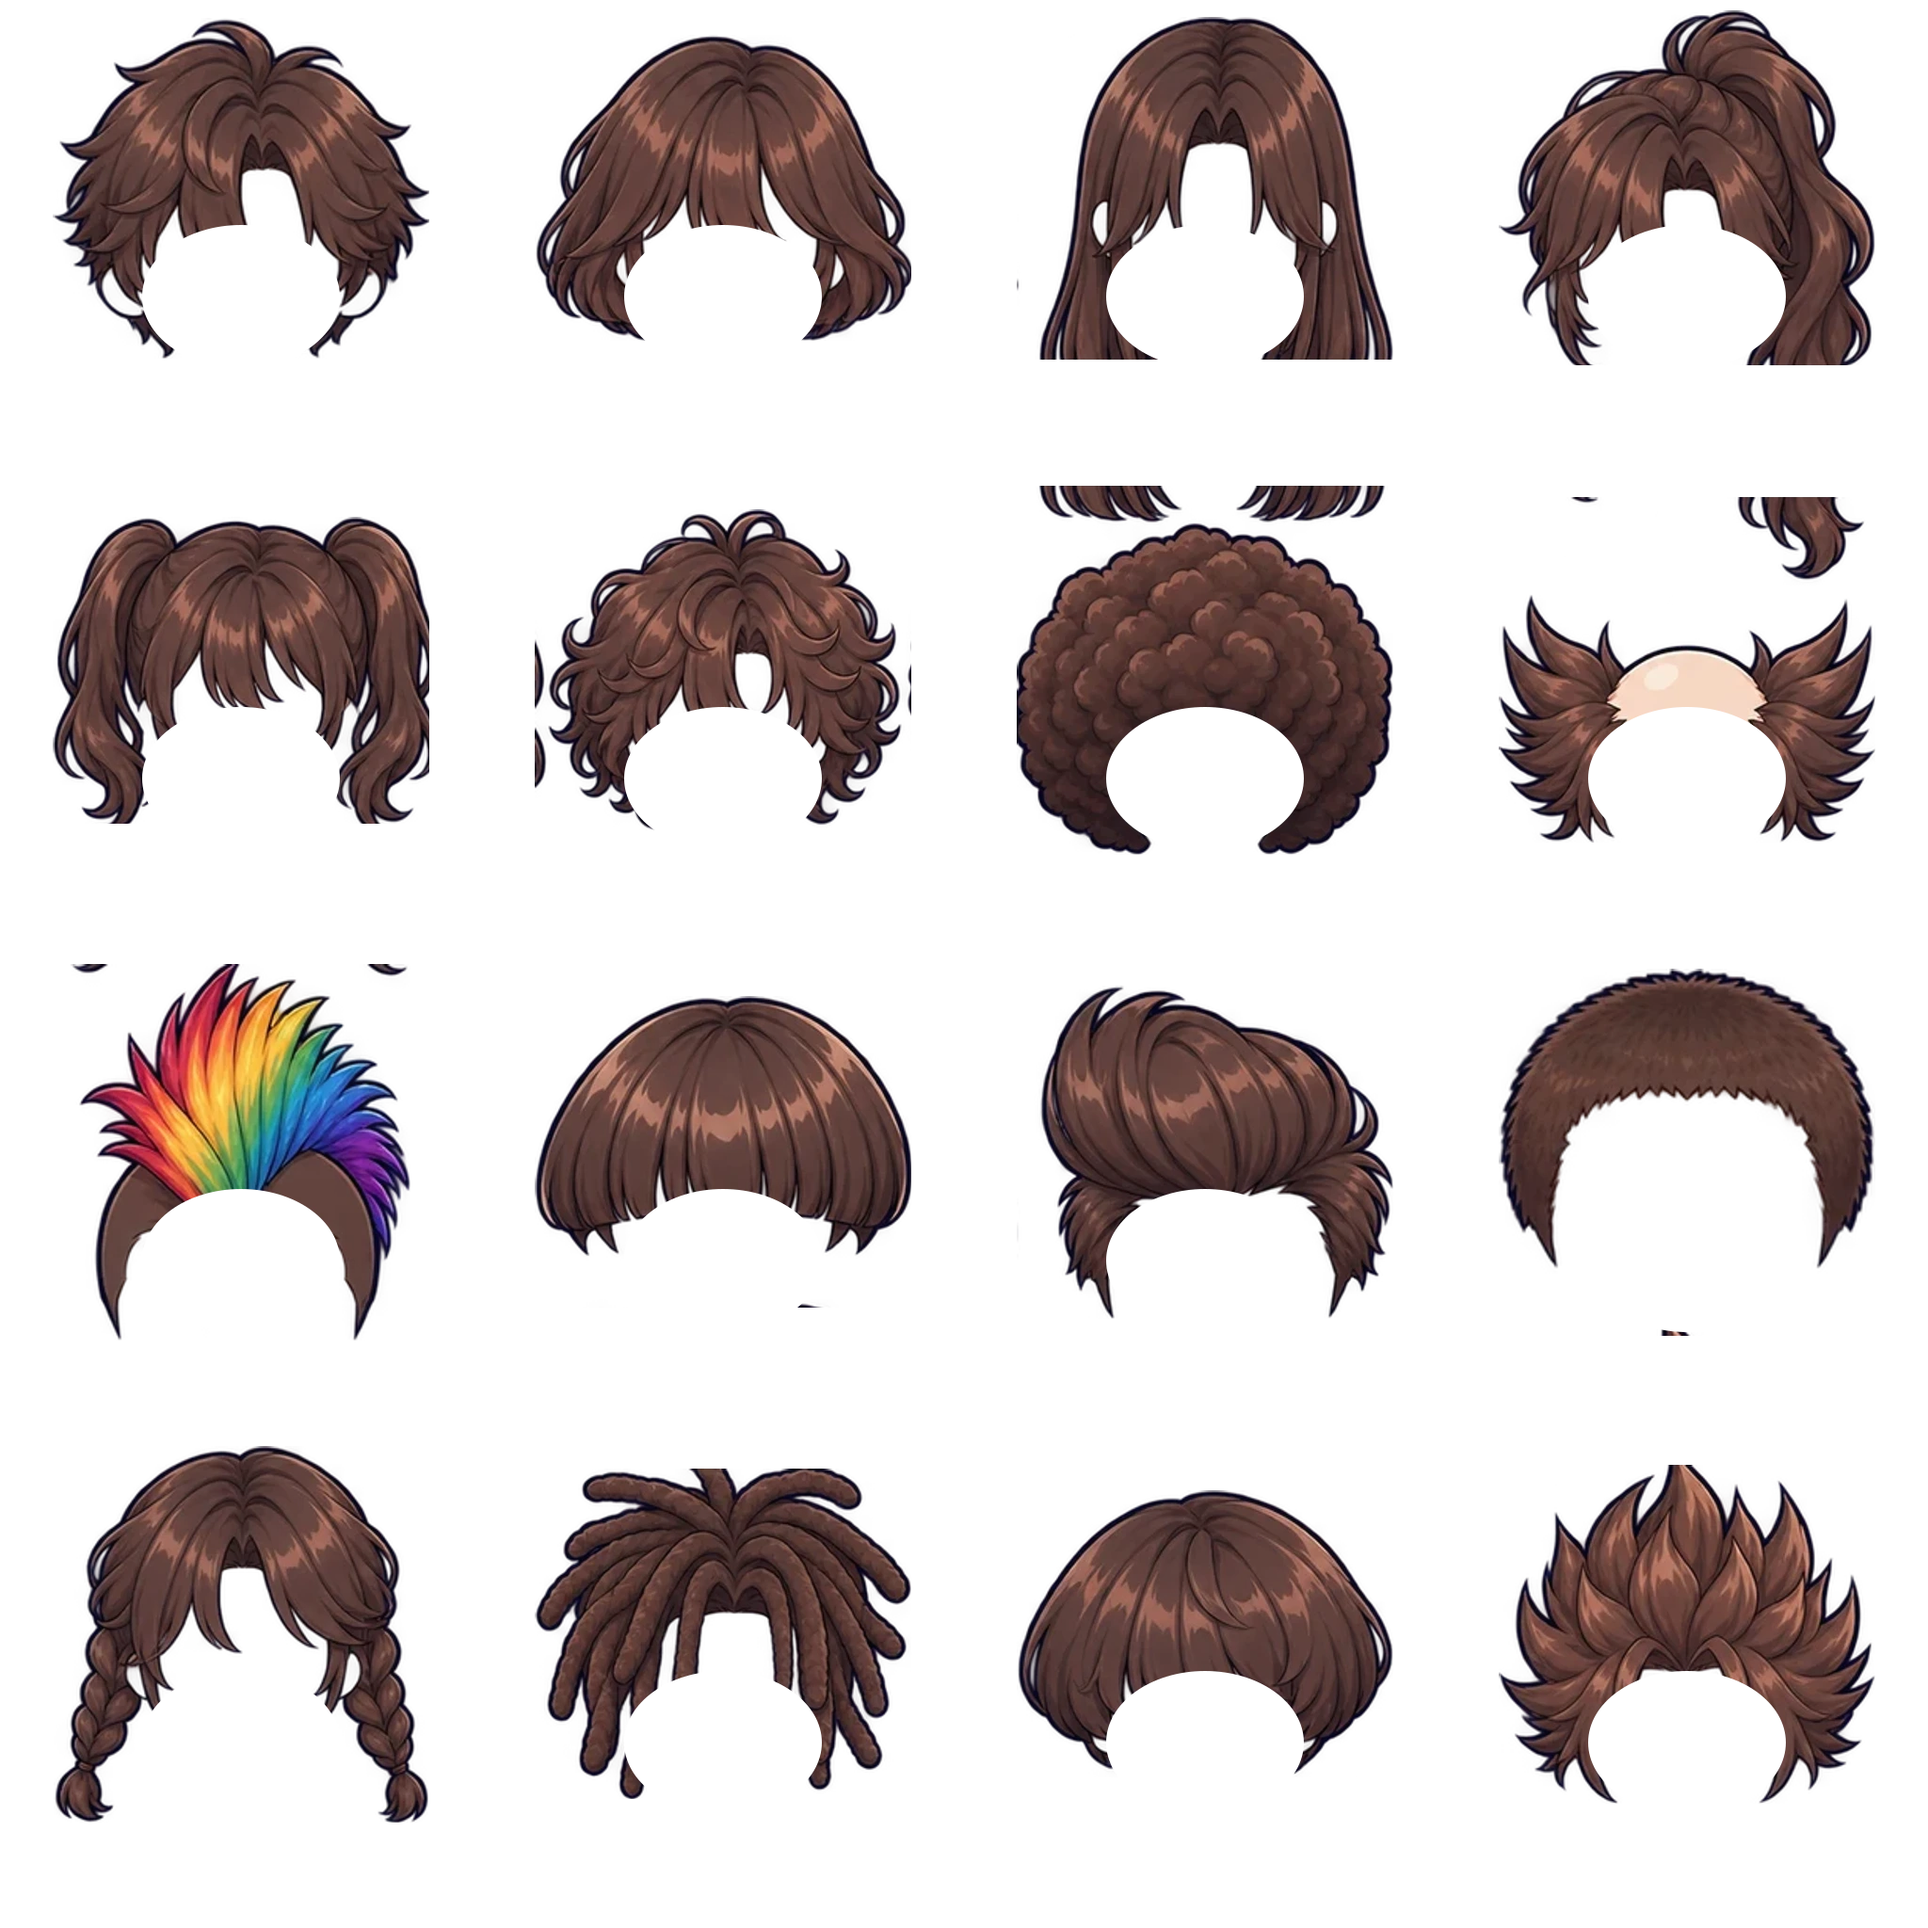
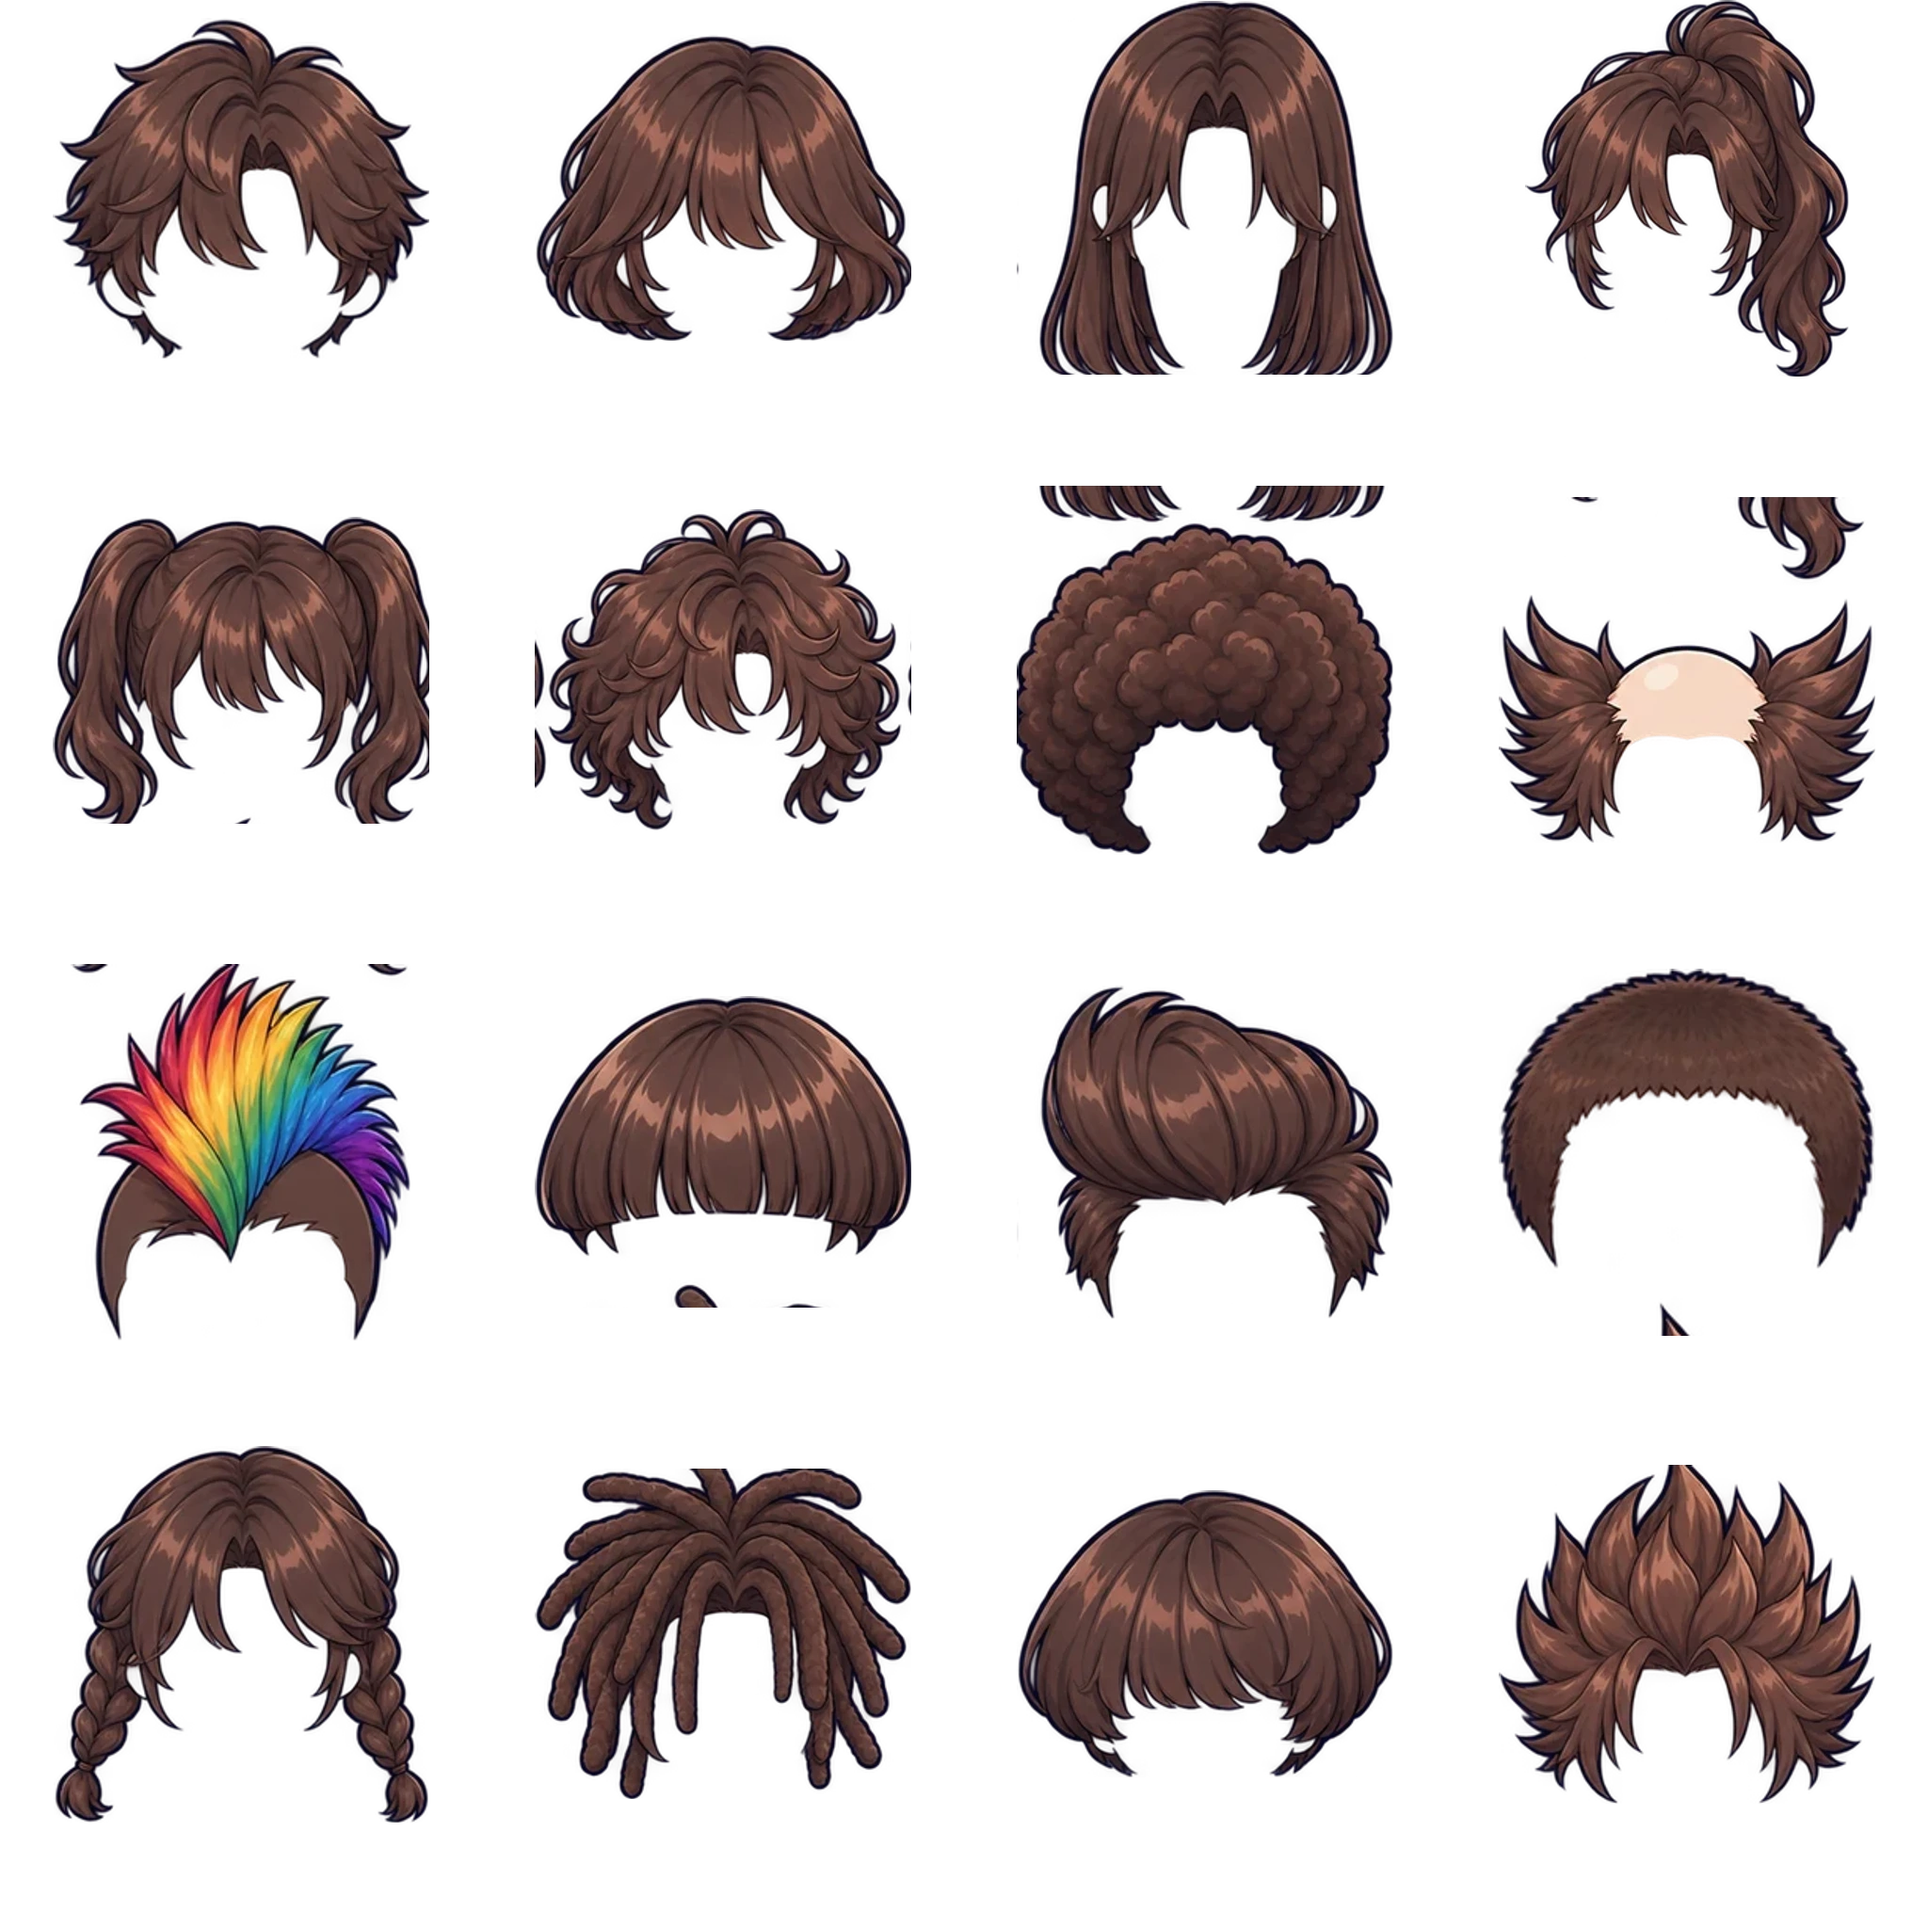
Tune Tichu hairstyles individually

diff --git a/app/tichu/TichuClient.tsx b/app/tichu/TichuClient.tsx
@@ -25,8 +25,8 @@ function AvatarArt({index,skin=1,hairColor=0,expression=0,outfit=0,accessory=0,f
   <span className="absolute inset-0" style={{backgroundColor:s,WebkitMaskImage:"url('/tichu-avatar-base-v3.webp')",maskImage:"url('/tichu-avatar-base-v3.webp')",WebkitMaskSize:"contain",maskSize:"contain",WebkitMaskPosition:"center",maskPosition:"center",WebkitMaskRepeat:"no-repeat",maskRepeat:"no-repeat",clipPath:"inset(0 0 19% 0)",opacity:skin===0?.1:.68}}/>
   <span className="absolute inset-0 bg-[url('/tichu-avatar-outfits-v3.webp')] bg-[length:400%_300%] bg-no-repeat" style={{backgroundPosition:outfitPos}}/>
   <span className="absolute inset-0 bg-[url('/tichu-avatar-expressions-v3.webp')] bg-[length:400%_200%] bg-no-repeat" style={{backgroundPosition:facePos}}/>
-  <span className="absolute inset-0 bg-[url('/tichu-avatar-hair-v3.webp')] bg-[length:400%_400%] bg-no-repeat" style={{backgroundPosition:hairPos,transform:"translateY(-6%)"}}/>
-  <span className="absolute inset-0 opacity-75" style={{backgroundColor:h,WebkitMaskImage:"url('/tichu-avatar-hair-v3.webp')",maskImage:"url('/tichu-avatar-hair-v3.webp')",WebkitMaskSize:"400% 400%",maskSize:"400% 400%",WebkitMaskPosition:hairPos,maskPosition:hairPos,mixBlendMode:"color",transform:"translateY(-6%)"}}/>
+  <span className="absolute inset-0 bg-[url('/tichu-avatar-hair-v3.webp')] bg-[length:400%_400%] bg-no-repeat" style={{backgroundPosition:hairPos}}/>
+  <span className="absolute inset-0 opacity-75" style={{backgroundColor:h,WebkitMaskImage:"url('/tichu-avatar-hair-v3.webp')",maskImage:"url('/tichu-avatar-hair-v3.webp')",WebkitMaskSize:"400% 400%",maskSize:"400% 400%",WebkitMaskPosition:hairPos,maskPosition:hairPos,mixBlendMode:"color"}}/>
   {acc>0&&<span className="absolute inset-0 bg-[url('/tichu-avatar-accessories-v3.webp')] bg-[length:400%_400%] bg-no-repeat" style={{backgroundPosition:accPos}}/>}
  </span>
 }
